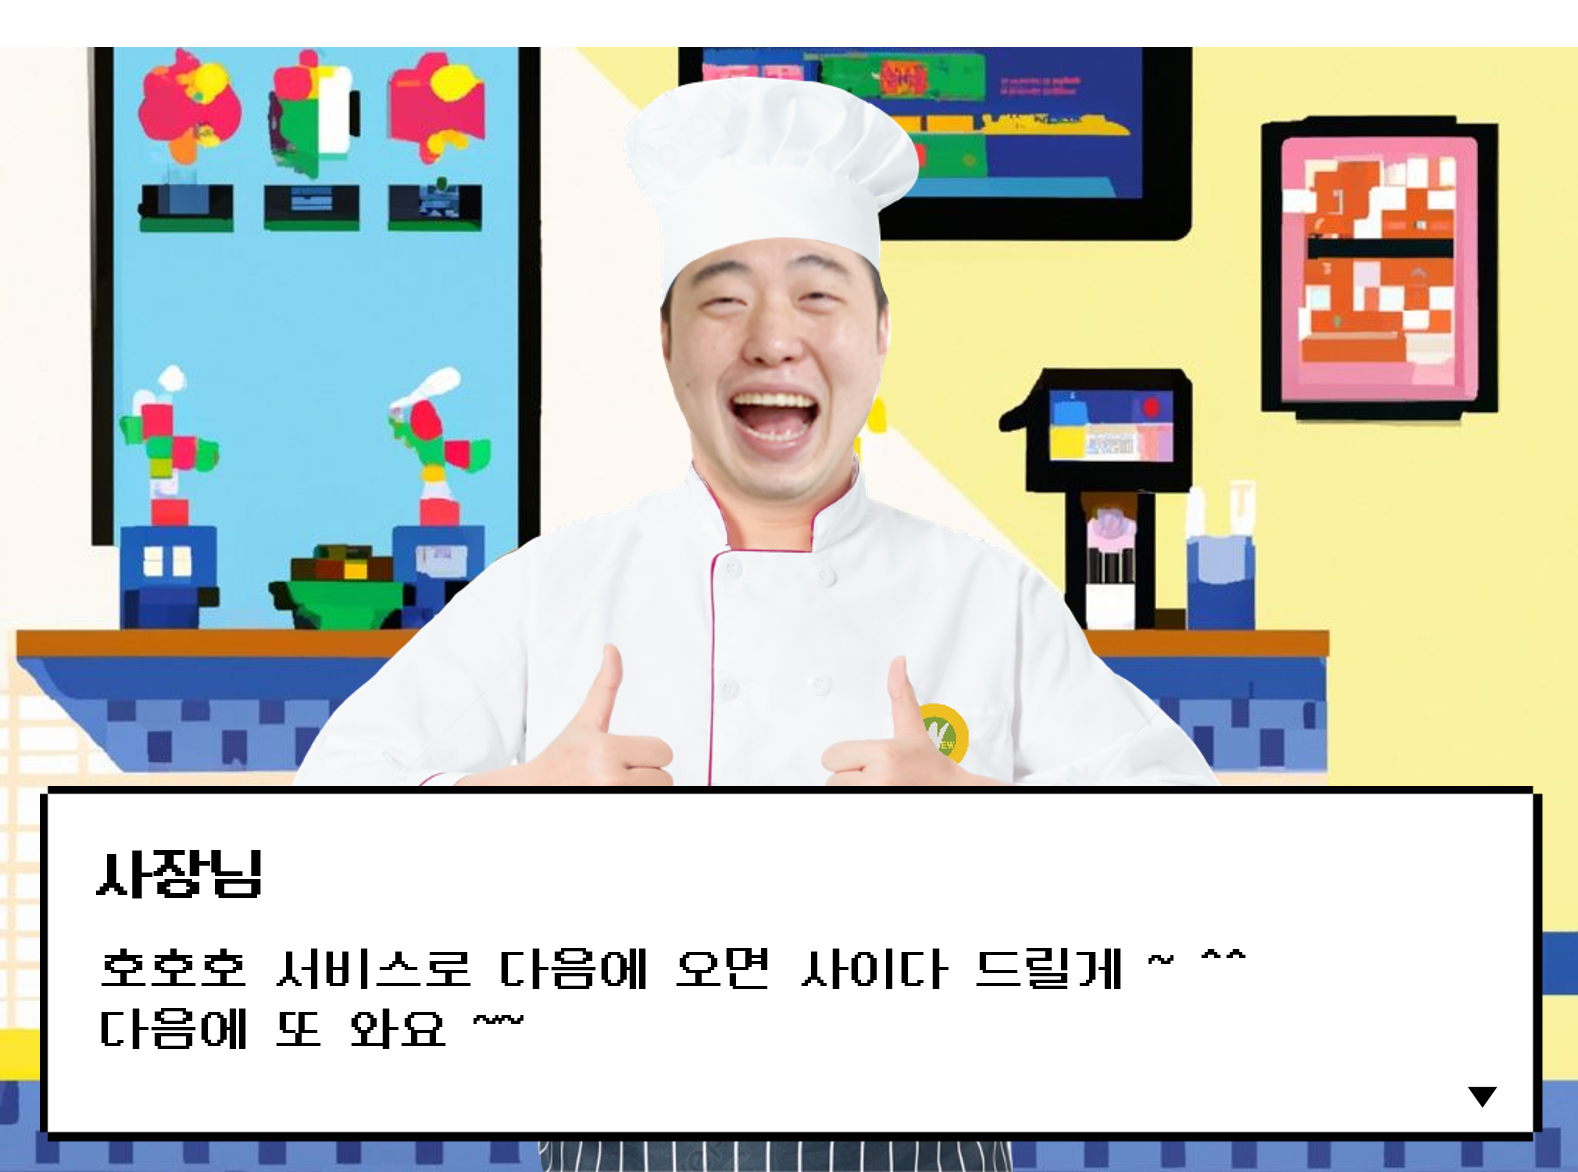
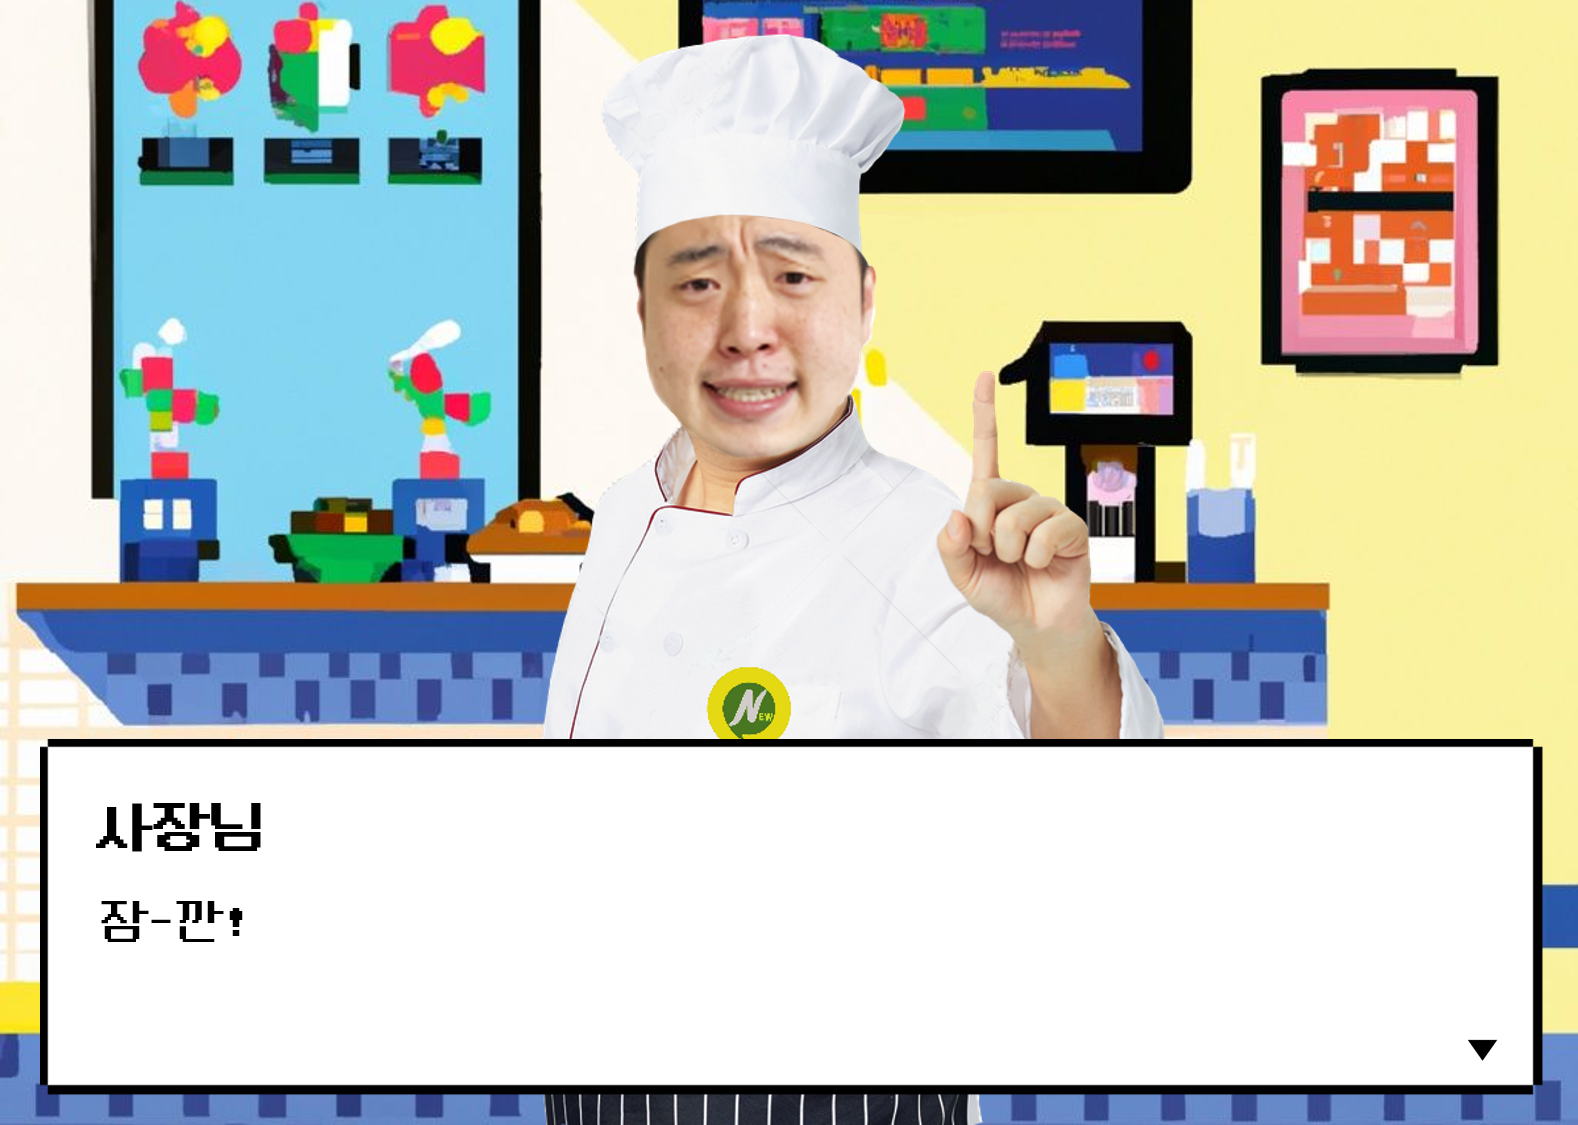
[병합] 상민 세영 병합해야 함
상민, 예진, 현준 병합 완료

diff --git a/app.html b/app.html
@@ -125,8 +125,6 @@
   <img src="images/afterGame_0.png" id="afterGame0" class="d-none">
 
   <!-- ■■■■■■■■■■■■■■■■■■ Kiosk ■■■■■■■■■■■■■■■■■■ -->
-
-  <!-- ■■■■■■■■■■■■■■■■■■ 음식 맞추기 ■■■■■■■■■■■■■■■■■■ -->
   <audio src="./2kioskSound/clicked.wav" id="clicksound"></audio>
   <audio src="./2kioskSound/win.mp3" id="winsound"></audio>
   <audio src="./2kioskSound/fail.mp3" id="failsound"></audio>
@@ -150,10 +148,21 @@
   <button id="submit-btn" class="d-none">제출</button>
   <button id="last-btn" class="d-none">나가기</button>
 
-  <img src="./2kioskImg/win_.png" id="win" class="d-none">
-  <img src="./2kioskImg/lose_.png" id="lose" class="d-none">
+  <img src="./2kioskImg/win_.png" id="hcwin" class="d-none">
+  <img src="./2kioskImg/lose_.png" id="hclose" class="d-none">
+
+  <!-- ■■■■■■■■■■■■■■■■■■ 음식 맞추기 ■■■■■■■■■■■■■■■■■■ -->
+  
 
   <!-- ■■■■■■■■■■■■■■■■■■ 사장과의 대결 ■■■■■■■■■■■■■■■■■■ -->
+  <!-- background -->
+  <img src="/4battleImg/배틀화면텍스트.png" id="background" class="d-none">
+
+  <!-- scenairo -->
+  <img id="talk0" class="d-none" src="4battleImg/talk_0.png" />
+  <img id="talk1" class="d-none" src="4battleImg/talk_1.png" />
+  <img id="talk2" class="d-none" src="4battleImg/Gamerule.png" />
+
   <!-- game NPC -->
   <img id="ceo" class="d-none" src="./4battleImg/ceoHappy.png" />
   <img id="4user" class="d-none" src="./4battleImg/userHappy.png" />
@@ -171,6 +180,14 @@
   <!-- win/lose -->
   <img id="win" class="d-none" src="./4battleImg/win.png" />
   <img id="lose" class="d-none" src="./4battleImg/lose.png" />
+
+  <audio id="battleBgm" src="./4battleSound/BMG01.mp3"></audio>
+  <audio id="battleClick" src="./4battleSound/click00.wav"></audio>
+  <audio
+    id="battleStartBtn"
+    src="./4battleSound/3quizSound_click.wav"
+  ></audio>
+  <audio id="battleKeyup" src="./4battleSound/etc03.wav"></audio>
 
 
   <!-- ■■■■■■■■■■■■■■■■■■ 본게임 이후 ■■■■■■■■■■■■■■■■■■ -->
@@ -200,30 +217,6 @@
   <!-- <img src="images/afterGame_17.png" id="afterGame17" class="d-none">
   <button id="AG-S17-btnToMain" class="AG-S17-btnToMain"><img src="images/btnToMain.png"></button>
   <button id="AG-S17-btnToEnding" class="AG-S17-btnToEnding"><img src="images/btnToEnding.png"></button> -->
-  <!-- ■■■■■■■■■■■■■■■■■■ 세영 ■■■■■■■■■■■■■■■■■■ -->
-
-  <!-- 배경
-  <img src="3quizImg/quiz_bg1.png" class="d-none" id="bg1" />
-  <img src="3quizImg/quiz_bg2.png" class="d-none" id="bg2" />
-  <!-- 콘텐츠 -->
-  <!-- <img src="3quizImg/rule.png" class="d-none" id="rule" /> -->
-  <!-- 버튼 -->
-  <!-- <img class="d-none" id="startbtn1" src="3quizImg/button_start.png" />
-  <img class="d-none" id="startbtn2" src="3quizImg/button_start2.png" />
-  <img class="d-none" id="rulebtn" src="3quizImg/rulebtn.png" /> -->
-
-  <!-- ■■■■■■■■■■■■■■■■■■ 4battle JIN ■■■■■■■■■■■■■■■■■■ -->
-  <!-- scenairo -->
-  <!-- <img id="talk00" class="d-none" src="4battleImg/잠깐1.png" />
-  <img id="talk01" class="d-none" src="4battleImg/잠깐2.png" />
-  <img id="talk0" class="d-none" src="4battleImg/talk0.png" />
-  <img id="talk1" class="d-none" src="4battleImg/talk1.png" />
-  <img id="talk2" class="d-none" src="4battleImg/talk2.png" />
-  <img id="talk3" class="d-none" src="4battleImg/talk3.png" />
-  <img id="talk4" class="d-none" src="4battleImg/Gamerule.png" /> -->
-
-  <!-- background -->
-  <!-- <img id="background" class="d-none" src="./4battleImg/background.png" /> -->
 
 </body>
 

diff --git a/app.js b/app.js
@@ -147,10 +147,15 @@ window.onload = () => {
       ending.play();
       endingSE.play();
     })
-  }
+  } // slot game ----------------------------------------------------------
 
   // 낮은 평가 시 ■■■■■■■■■■■■■■■■■■■■■■■■■■■■■■■■■■■■■■■■■■■■■■■■■■■■■■■■■■■■
   let toGame = function () {
+    
+    // GAME_2 : 음식맞추기 ■■■■■■■■■■■■■■■■■■■■■■■■■■■■■■■■■■■■■■
+    
+
+
     // GAME_3 : 사장과대결 ■■■■■■■■■■■■■■■■■■■■■■■■■■■■■■■■■■■■■■
     // // Main
     battleStartCanvas.run();
@@ -160,11 +165,14 @@ window.onload = () => {
       if (index == 4) {
         battleGameCanvas.battleCanvas.style.display = "block";
         battleStartCanvas.startCanvas.remove();
+        console.log("1");
         battleGameCanvas.run();
+        console.log("2");
         clearInterval(checkIndex);
       }
     }, 100);
-    // // GAME_1 : 키오스크 ■■■■■■■■■■■■■■■■■■■■■■■■■■■■■■■■■■■■■■■■
+
+    // GAME_1 : 키오스크 ■■■■■■■■■■■■■■■■■■■■■■■■■■■■■■■■■■■■■■■■
     // const startBtn = document.getElementById('start-btn');
     // const nextBtn = document.getElementById('next-btn');
     // const submitBtn = document.getElementById('submit-btn');
@@ -215,9 +223,5 @@ window.onload = () => {
     //   document.getElementById('last-btn').style.display = "block";
     // })
   }
-
-
-  // GAME_2 : 음식맞추기 ■■■■■■■■■■■■■■■■■■■■■■■■■■■■■■■■■■■■■■
-
 
 }; // window.onload

diff --git a/ui/0restaurantCanvas.js b/ui/0restaurantCanvas.js
@@ -41,8 +41,8 @@ export default class RestaurantCanvas {
     this.#sceneIndex = 0;
     this.#canvas.onclick = this.clickHandler.bind(this);
 
-    // images --------------------------------------------------------
-    this.#scenes = new Array(18);
+      // images --------------------------------------------------------
+      this.#scenes = new Array(18);
     // html에서 scenes 이미지 가져오기
     for (let i = 0; i < this.#scenes.length; i++) {
       this.#scenes[i] = document.getElementById(`inRstrnt${i}`);

diff --git a/2kioskitem/2kioskResult.js b/2kioskitem/2kioskResult.js
@@ -12,11 +12,11 @@ export default class KioskResult{
         this.#x = 0;
         this.#y = 0;
 
-        this.#winImg = document.getElementById('win');
+        this.#winImg = document.getElementById('hcwin');
         this.#winImg.width = 1150;
         this.#winImg.height = 820;
 
-        this.#loseImg = document.getElementById('lose');
+        this.#loseImg = document.getElementById('hclose');
         this.#loseImg.width = 1150;
         this.#loseImg.height = 820;
 
